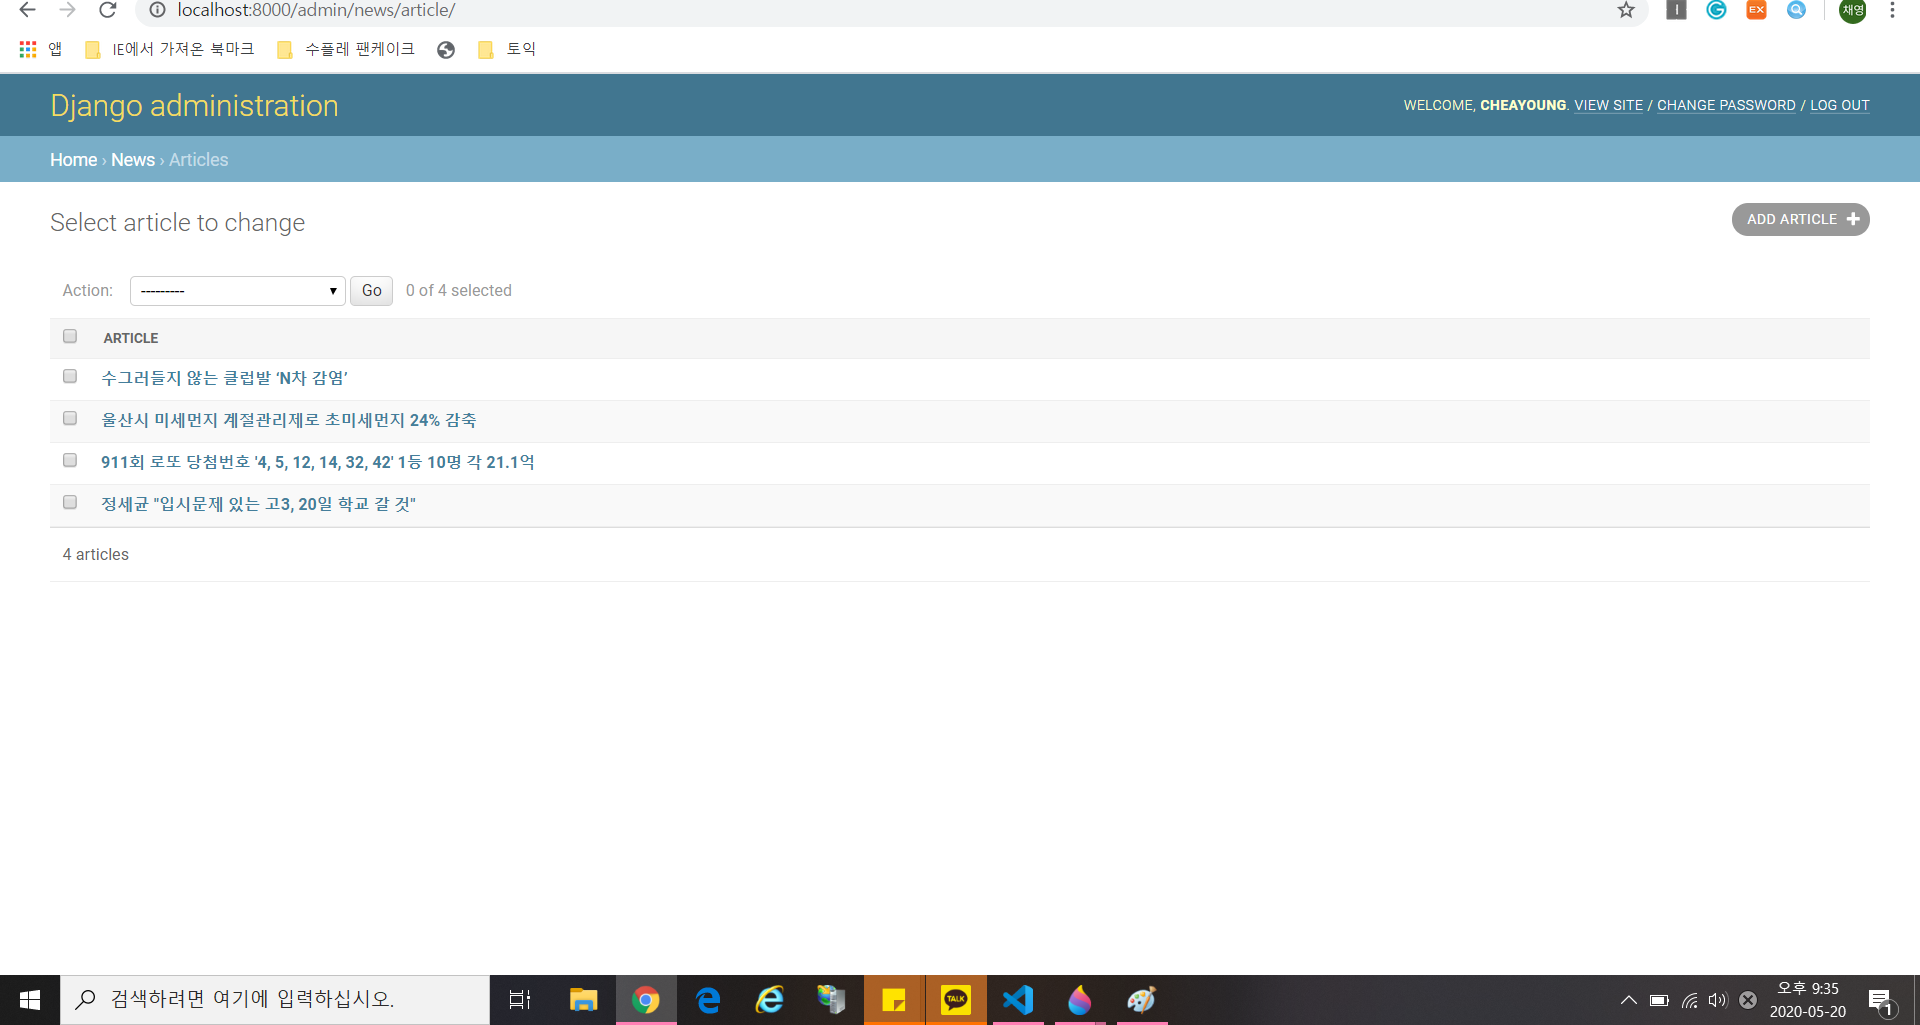
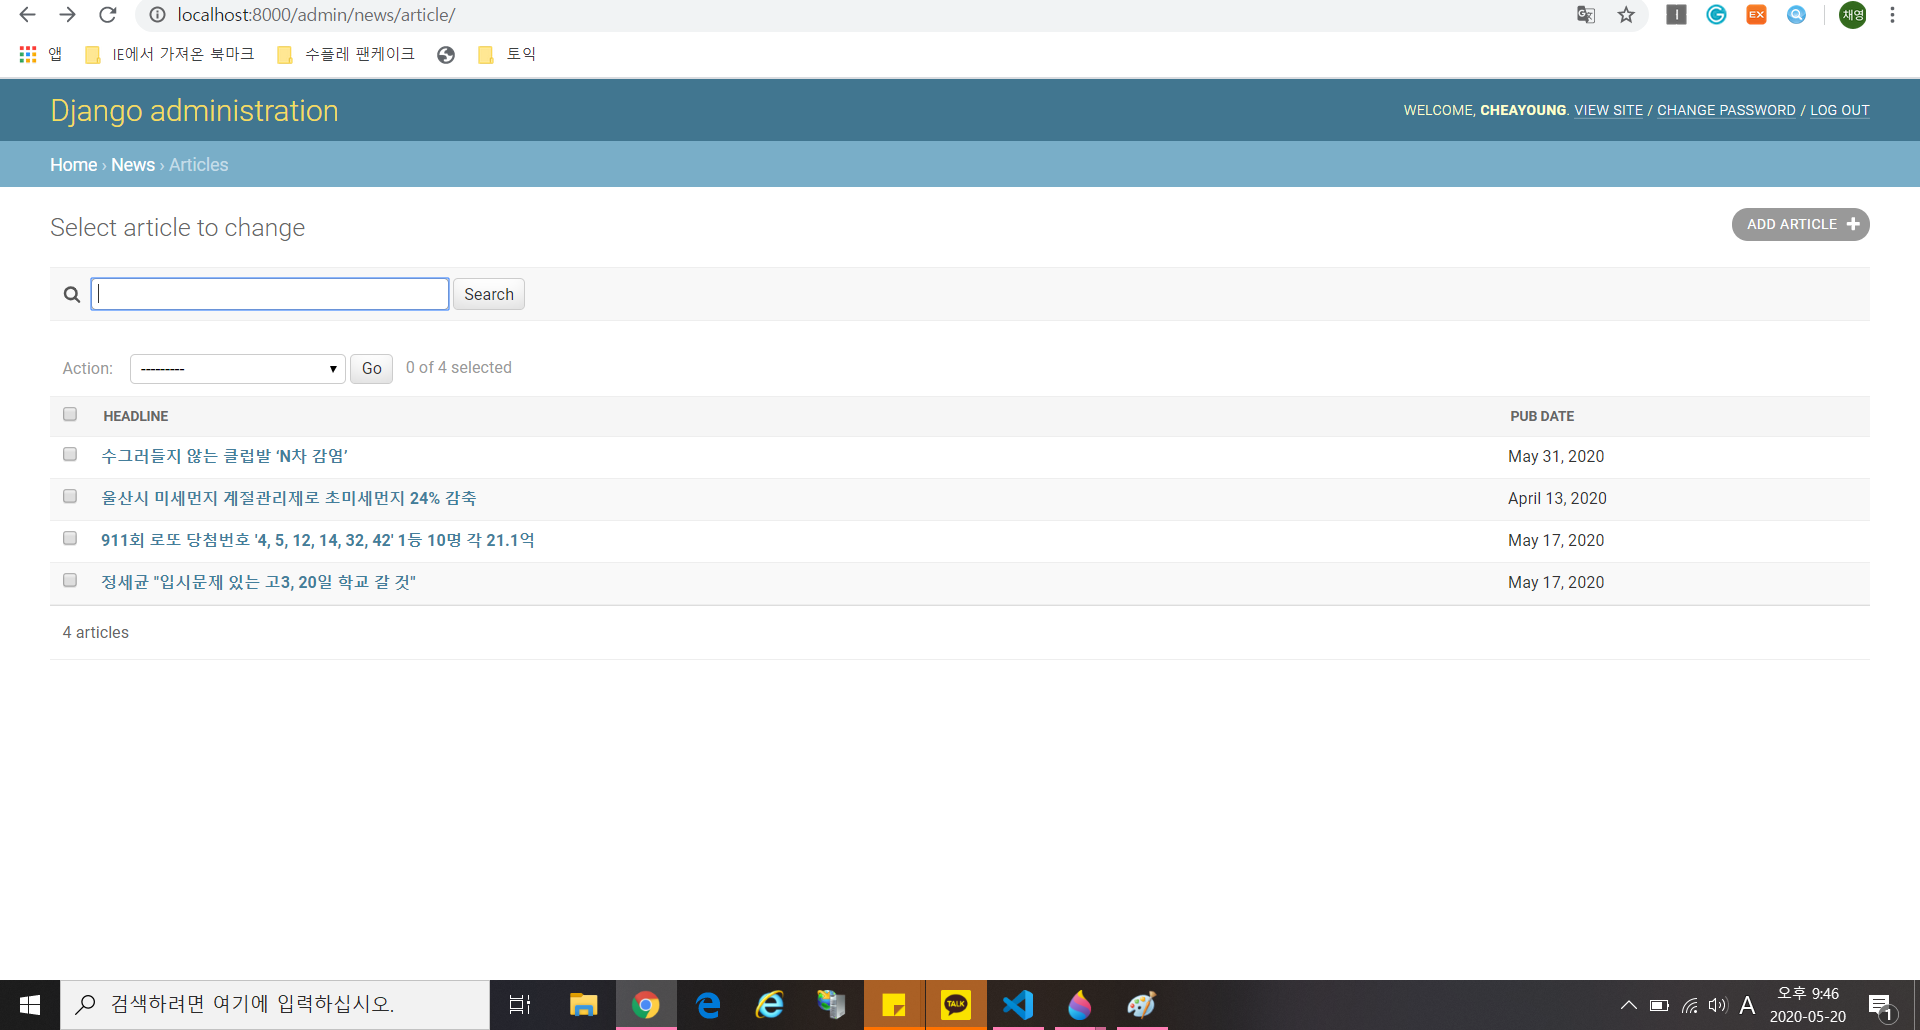
add admin

diff --git a/mysite/news/admin.py b/mysite/news/admin.py
@@ -5,6 +5,8 @@ from . import models
 class ArticleAdmin(admin.ModelAdmin):
     fieldsets = [ (None, {'fields':['headline']}),
     ('Data information', {'fields':['content','pub_date','reporter',]}), ]
+    list_display = ('headline', 'pub_date')
+    search_fields = ['content']
 
 admin.site.register(models.Reporter)
 admin.site.register(models.Article, ArticleAdmin)

diff --git a/mysite/news/models.py b/mysite/news/models.py
@@ -21,3 +21,6 @@ class Article(models.Model):
     def was_published_recently(self):
         now = timezone.now()
         return now - datetime.timedelta(days=1) <= self.pub_date <= now
+    was_published_recently.admin_order_field = 'pub_date'
+    was_published_recently.boolean = True
+    was_published_recently.short_description = 'Published recently?'
